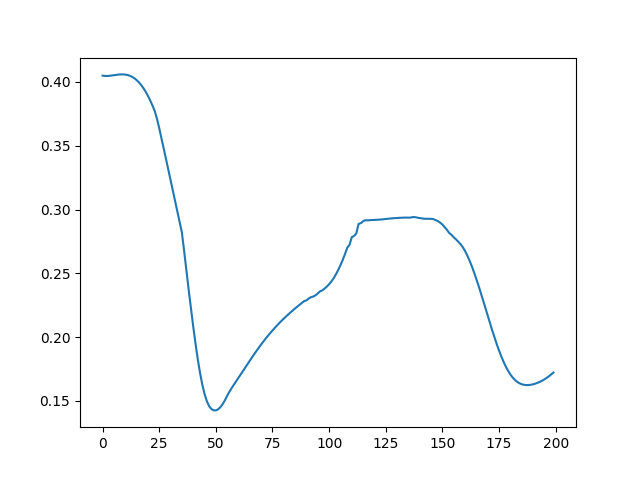
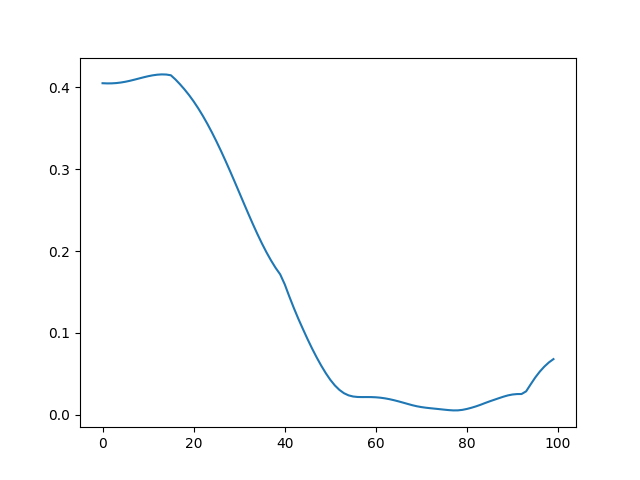
testing

diff --git a/mjx_planner_v2/mjx_planner.py b/mjx_planner_v2/mjx_planner.py
@@ -19,8 +19,8 @@ class cem_planner():
 		super(cem_planner, self).__init__()
 	 
 		self.num_dof = num_dof
-		self.t_fin = 2
-		self.num = 200
+		self.t_fin = 1
+		self.num = 100
 
 		self.t = self.t_fin/self.num
 		
@@ -183,10 +183,10 @@ class cem_planner():
 	def compute_cost_single(self, eef_pos, thetadot):
 		w1 = 1
 		w2 = 0.005
-		w3 = 0.13
+		w3 = 0.12
 
 		cost_g_ = jnp.linalg.norm(eef_pos - self.target_pos, axis=1)
-		cost_g = cost_g_[-1] #+ jnp.sum(cost_g_[:-1])*0.001
+		cost_g = jnp.sum(cost_g_[-50:]) + jnp.sum(cost_g_[:-50])*0.001
 
 		cost_s = jnp.sum(jnp.linalg.norm(thetadot.reshape(self.num_dof, self.num), axis=1))
 
